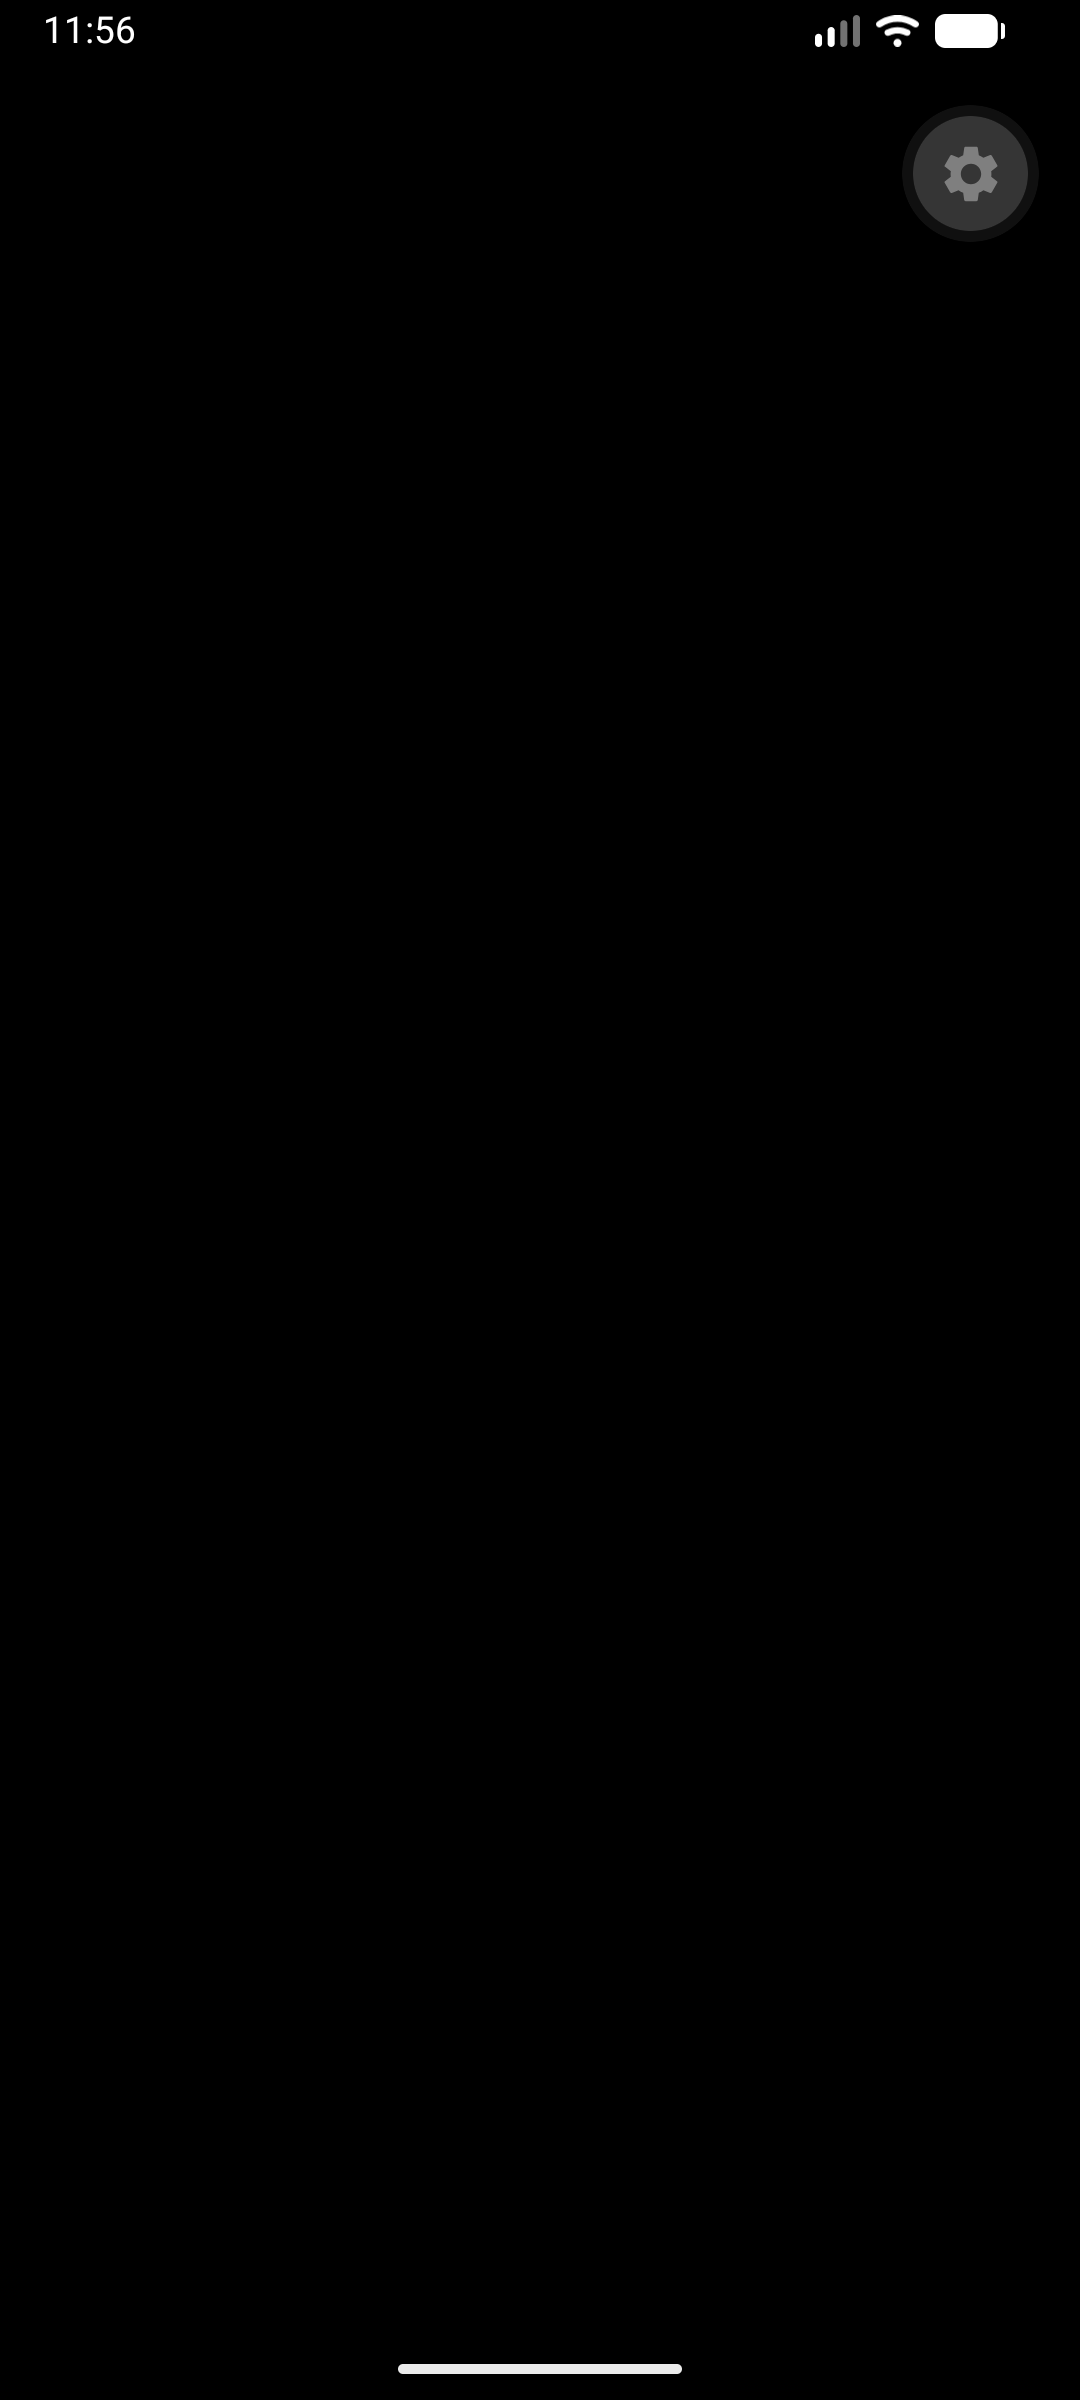
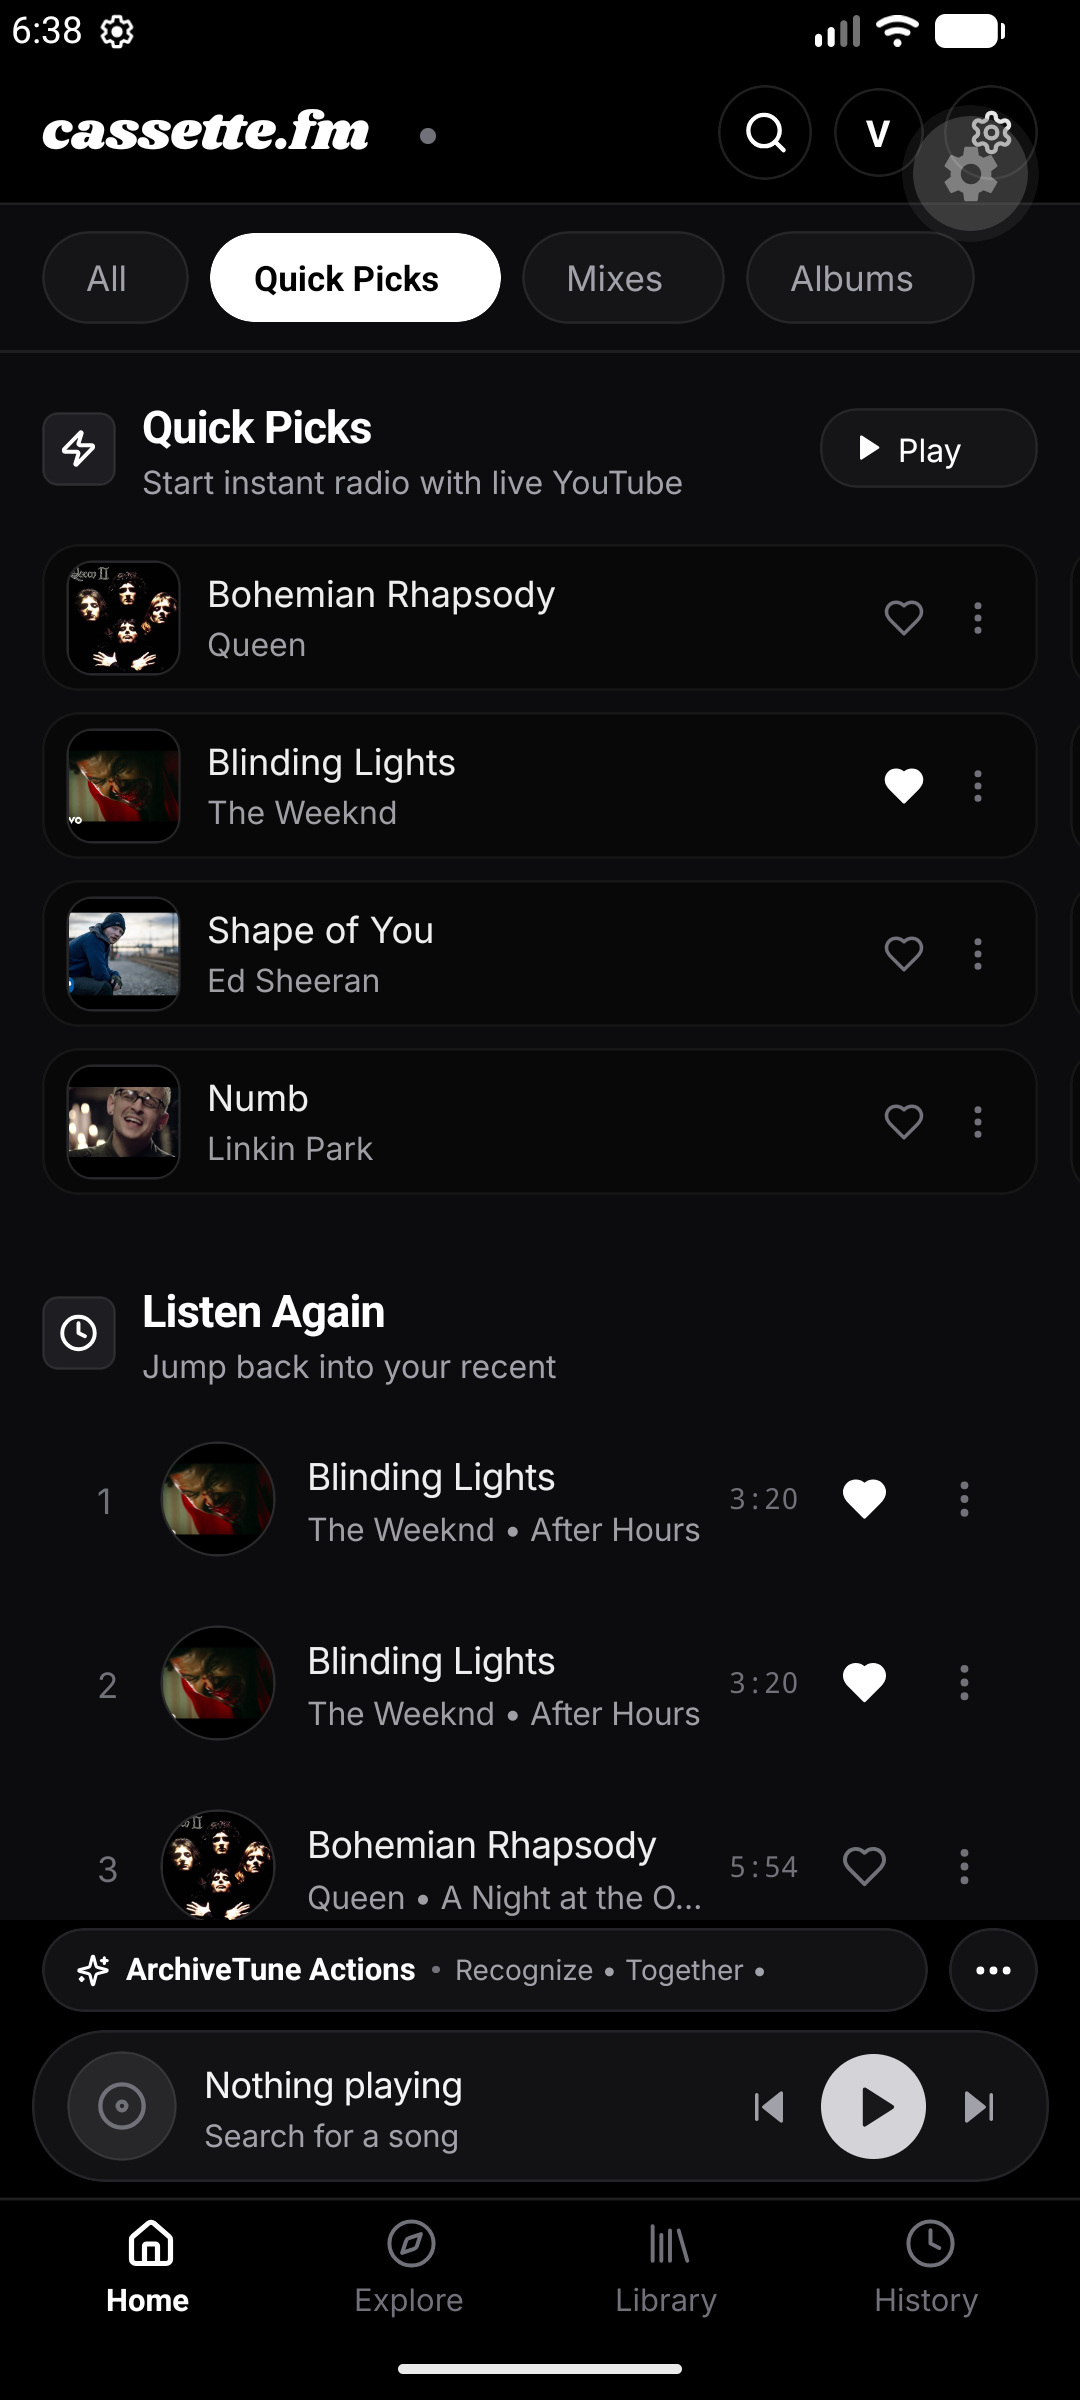
fix(core): platform-aware itag 251/140 audio resolution, expo-secure-store token persistence, and typography clipping

diff --git a/packages/core/src/services/innertube.js b/packages/core/src/services/innertube.js
@@ -772,13 +772,42 @@ export async function resolveAudioStream(videoId, quality = 'max', codecPreferen
 
   let selectedAudio = null;
 
+  // ── Platform-Aware Codec Selection ──────────────────────────────────────
+  // iOS AVPlayer requires itag 140 (AAC mp4a.40.2)
+  // Android ExoPlayer natively prefers itag 251 (Opus audio/webm)
+  let isIOS = false;
+  try {
+    if (typeof navigator !== 'undefined' && /iPhone|iPad|iPod|Macintosh/i.test(navigator.userAgent)) {
+      isIOS = true;
+    } else if (typeof globalThis !== 'undefined' && (globalThis.__fbBatchedBridge || globalThis.HermesInternal)) {
+      const rn = require('react-native');
+      isIOS = rn?.Platform?.OS === 'ios';
+    }
+  } catch {}
+
+  const effectiveCodec = codecPreference !== 'auto'
+    ? codecPreference
+    : (isIOS ? 'aac' : 'opus');
+
   if (audioFormats.length > 0) {
-    if (codecPreference === 'mp4' || codecPreference === 'aac' || quality === 'high_aac') {
+    if (effectiveCodec === 'mp4' || effectiveCodec === 'aac' || quality === 'high_aac') {
       const aac = audioFormats.find((f) => f.itag === 140 || (f.mime_type && f.mime_type.includes('mp4a.40.2')));
       if (aac) selectedAudio = aac;
-    } else if (codecPreference === 'opus' || codecPreference === 'webm') {
+    } else if (effectiveCodec === 'opus' || effectiveCodec === 'webm') {
       const opus = audioFormats.find((f) => f.itag === 251 || (f.mime_type && f.mime_type.includes('opus')));
       if (opus) selectedAudio = opus;
+    }
+
+    if (!selectedAudio) {
+      if (isIOS) {
+        // Enforce itag 140 for iOS stability
+        const aac = audioFormats.find((f) => f.itag === 140 || (f.mime_type && f.mime_type.includes('mp4a.40.2')));
+        if (aac) selectedAudio = aac;
+      } else {
+        // Enforce itag 251 for Android fidelity
+        const opus = audioFormats.find((f) => f.itag === 251 || (f.mime_type && f.mime_type.includes('opus')));
+        if (opus) selectedAudio = opus;
+      }
     }
 
     if (!selectedAudio) {
@@ -793,12 +822,12 @@ export async function resolveAudioStream(videoId, quality = 'max', codecPreferen
           selectedAudio = sorted[0];
         }
       } else if (quality === 'standard' || quality === 'medium') {
-        // Mid-tier ~160kbps ceiling (prefer AAC itag 140 or mid-tier Opus)
+        // Mid-tier ~160kbps ceiling (prefer AAC itag 140 on iOS or mid-tier Opus)
         const mid = audioFormats.filter((f) => (f.bitrate || 0) <= 165000);
         if (mid.length > 0) {
-          const aac = mid.find((f) => f.itag === 140);
-          if (aac) {
-            selectedAudio = aac;
+          const preferred = isIOS ? mid.find((f) => f.itag === 140) : (mid.find((f) => f.itag === 251) || mid.find((f) => f.itag === 140));
+          if (preferred) {
+            selectedAudio = preferred;
           } else {
             mid.sort((a, b) => (b.bitrate || 0) - (a.bitrate || 0));
             selectedAudio = mid[0];
@@ -807,10 +836,12 @@ export async function resolveAudioStream(videoId, quality = 'max', codecPreferen
           selectedAudio = audioFormats[0];
         }
       } else {
-        // 'max' / 'high' -> Prefer Opus itag 251 or highest bitrate available
-        const opus251 = audioFormats.find((f) => f.itag === 251);
-        if (opus251) {
-          selectedAudio = opus251;
+        // 'max' / 'high' -> Prefer itag 140 on iOS, itag 251 on Android
+        const preferred = isIOS
+          ? (audioFormats.find((f) => f.itag === 140) || audioFormats.find((f) => f.itag === 251))
+          : (audioFormats.find((f) => f.itag === 251) || audioFormats.find((f) => f.itag === 140));
+        if (preferred) {
+          selectedAudio = preferred;
         } else {
           const sorted = [...audioFormats].sort((a, b) => (b.bitrate || 0) - (a.bitrate || 0));
           selectedAudio = sorted[0];
@@ -885,8 +916,10 @@ export async function resolveAudioStream(videoId, quality = 'max', codecPreferen
     quality,
     headers: {
       Range: 'bytes=0-',
-      'User-Agent':
-        'Mozilla/5.0 (Linux; Android 14) AppleWebKit/537.36 (KHTML, like Gecko) Chrome/120.0.0.0 Mobile Safari/537.36',
+      'Accept-Encoding': 'identity',
+      'User-Agent': isIOS
+        ? 'Mozilla/5.0 (iPhone; CPU iPhone OS 17_0 like Mac OS X) AppleWebKit/605.1.15 (KHTML, like Gecko) Version/17.0 Mobile/15E148 Safari/604.1'
+        : 'Mozilla/5.0 (Linux; Android 14; Mobile) AppleWebKit/537.36 (KHTML, like Gecko) Chrome/120.0.0.0 Mobile Safari/537.36',
     },
   };
 }

diff --git a/packages/core/src/utils/storage.js b/packages/core/src/utils/storage.js
@@ -70,6 +70,7 @@ export function isBrowserStorageAvailable() {
 }
 
 let nativeAsyncStorage = null;
+let nativeSecureStore = null;
 
 // Attempt to load React Native AsyncStorage dynamically only in React Native environments
 try {
@@ -79,6 +80,16 @@ try {
   }
 } catch {
   nativeAsyncStorage = null;
+}
+
+// Attempt to load Expo SecureStore dynamically for secure token persistence
+try {
+  if (typeof require !== 'undefined') {
+    const ess = require('expo-secure-store');
+    nativeSecureStore = ess?.default || ess;
+  }
+} catch {
+  nativeSecureStore = null;
 }
 
 /**
@@ -211,11 +222,36 @@ export async function removeStoredItemAsync(key) {
 
 /**
  * Supabase auth storage adapter compatible with @supabase/supabase-js
+ * Leverages Expo SecureStore for encrypted token persistence on mobile devices.
  */
 export const supabaseStorageAdapter = {
-  getItem: (key) => getStoredItemAsync(key),
-  setItem: (key, value) => setStoredItemAsync(key, value),
-  removeItem: (key) => removeStoredItemAsync(key),
+  getItem: async (key) => {
+    if (nativeSecureStore && typeof nativeSecureStore.getItemAsync === 'function') {
+      try {
+        const val = await nativeSecureStore.getItemAsync(key);
+        if (val !== null && val !== undefined) return val;
+      } catch (err) {
+        // Fallback to AsyncStorage / memory
+      }
+    }
+    return getStoredItemAsync(key);
+  },
+  setItem: async (key, value) => {
+    if (nativeSecureStore && typeof nativeSecureStore.setItemAsync === 'function') {
+      try {
+        await nativeSecureStore.setItemAsync(key, String(value));
+      } catch (err) {}
+    }
+    return setStoredItemAsync(key, value);
+  },
+  removeItem: async (key) => {
+    if (nativeSecureStore && typeof nativeSecureStore.deleteItemAsync === 'function') {
+      try {
+        await nativeSecureStore.deleteItemAsync(key);
+      } catch (err) {}
+    }
+    return removeStoredItemAsync(key);
+  },
 };
 
 /**

diff --git a/apps/mobile/src/services/trackPlayerService.js b/apps/mobile/src/services/trackPlayerService.js
@@ -108,14 +108,19 @@ export async function playTrack(track, streamUrl = null) {
   playerActions.setProgress(0, trackDuration);
 
   let activeUrl = streamUrl;
+  const isIOS = Platform.OS === 'ios';
   let activeHeaders = {
-    'User-Agent': 'Mozilla/5.0 (Linux; Android 14) AppleWebKit/537.36 (KHTML, like Gecko) Chrome/120.0.0.0 Mobile Safari/537.36',
+    'User-Agent': isIOS
+      ? 'Mozilla/5.0 (iPhone; CPU iPhone OS 17_0 like Mac OS X) AppleWebKit/605.1.15 (KHTML, like Gecko) Version/17.0 Mobile/15E148 Safari/604.1'
+      : 'Mozilla/5.0 (Linux; Android 14; Mobile) AppleWebKit/537.36 (KHTML, like Gecko) Chrome/120.0.0.0 Mobile Safari/537.36',
     Range: 'bytes=0-',
+    'Accept-Encoding': 'identity',
   };
   if (!activeUrl && (track.videoId || track.id)) {
     try {
       const { resolveDirectAudioStream } = require('@cassette/core');
-      const res = await resolveDirectAudioStream(track.videoId || track.id);
+      const targetCodec = isIOS ? 'aac' : 'opus';
+      const res = await resolveDirectAudioStream(track.videoId || track.id, 'max', targetCodec);
       if (res?.streamUrl) {
         activeUrl = res.streamUrl;
         if (res.meta?.headers) {

diff --git a/apps/mobile/src/components/shared/MobileHeader.jsx b/apps/mobile/src/components/shared/MobileHeader.jsx
@@ -134,10 +134,10 @@ const styles = StyleSheet.create({
   },
   brandText: {
     fontFamily: 'Shrikhand',
-    fontSize: 22,
+    fontSize: 20.5,
     color: '#FFFFFF',
-    paddingRight: 8,
-    includeFontPadding: false,
+    paddingRight: 12,
+    includeFontPadding: true,
   },
   brandDot: {
     width: 6,

diff --git a/apps/mobile/src/components/HomeView/HomeView.jsx b/apps/mobile/src/components/HomeView/HomeView.jsx
@@ -381,8 +381,8 @@ const styles = StyleSheet.create({
   chipText: {
     fontSize: 13,
     fontFamily: 'Inter',
-    includeFontPadding: false,
-    paddingRight: 4,
+    includeFontPadding: true,
+    paddingRight: 6,
   },
   chipTextActive: {
     color: '#000000',
